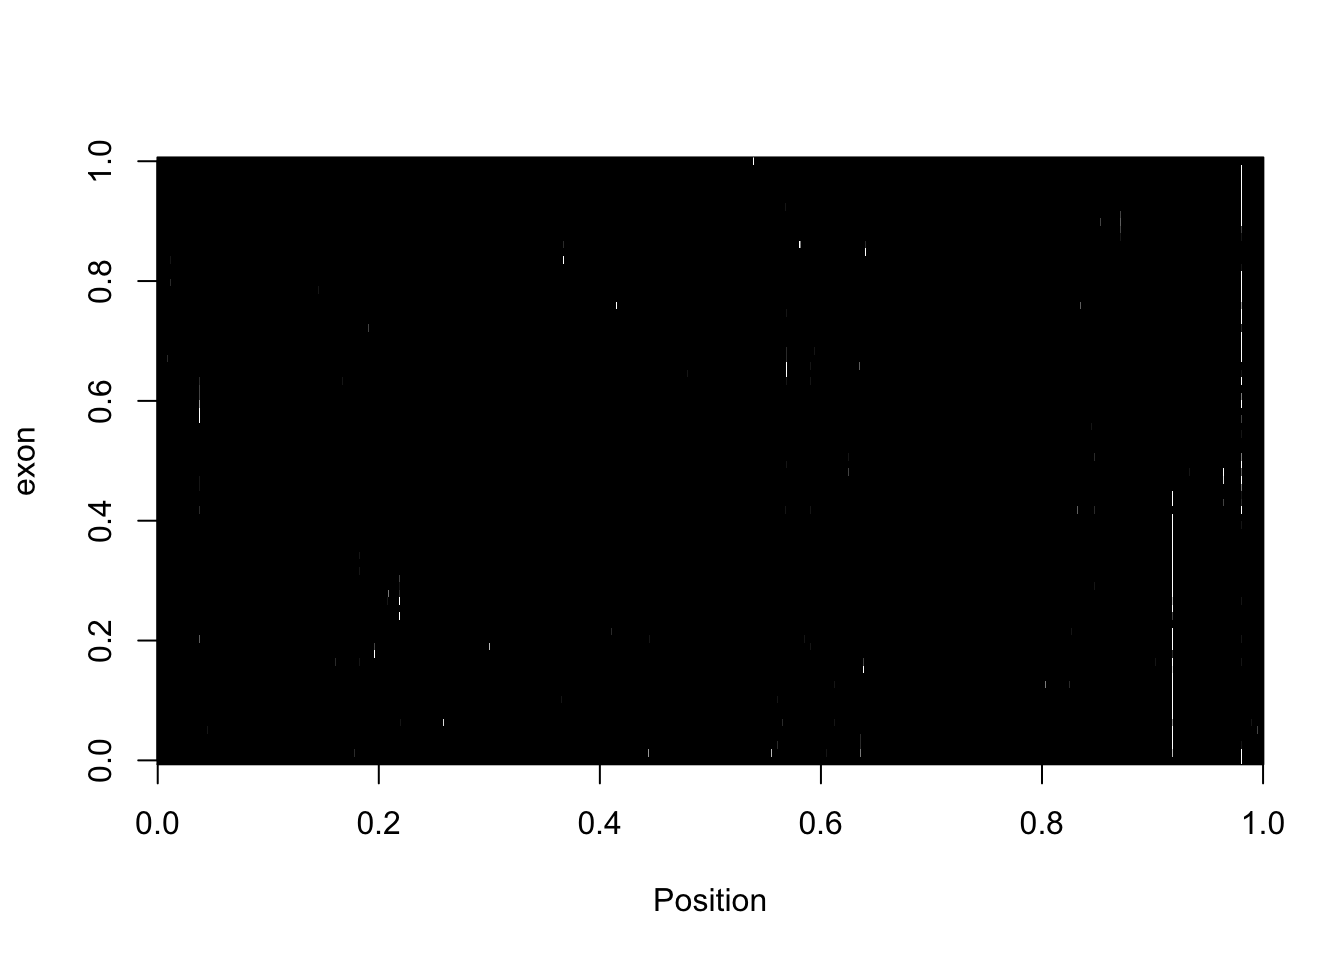
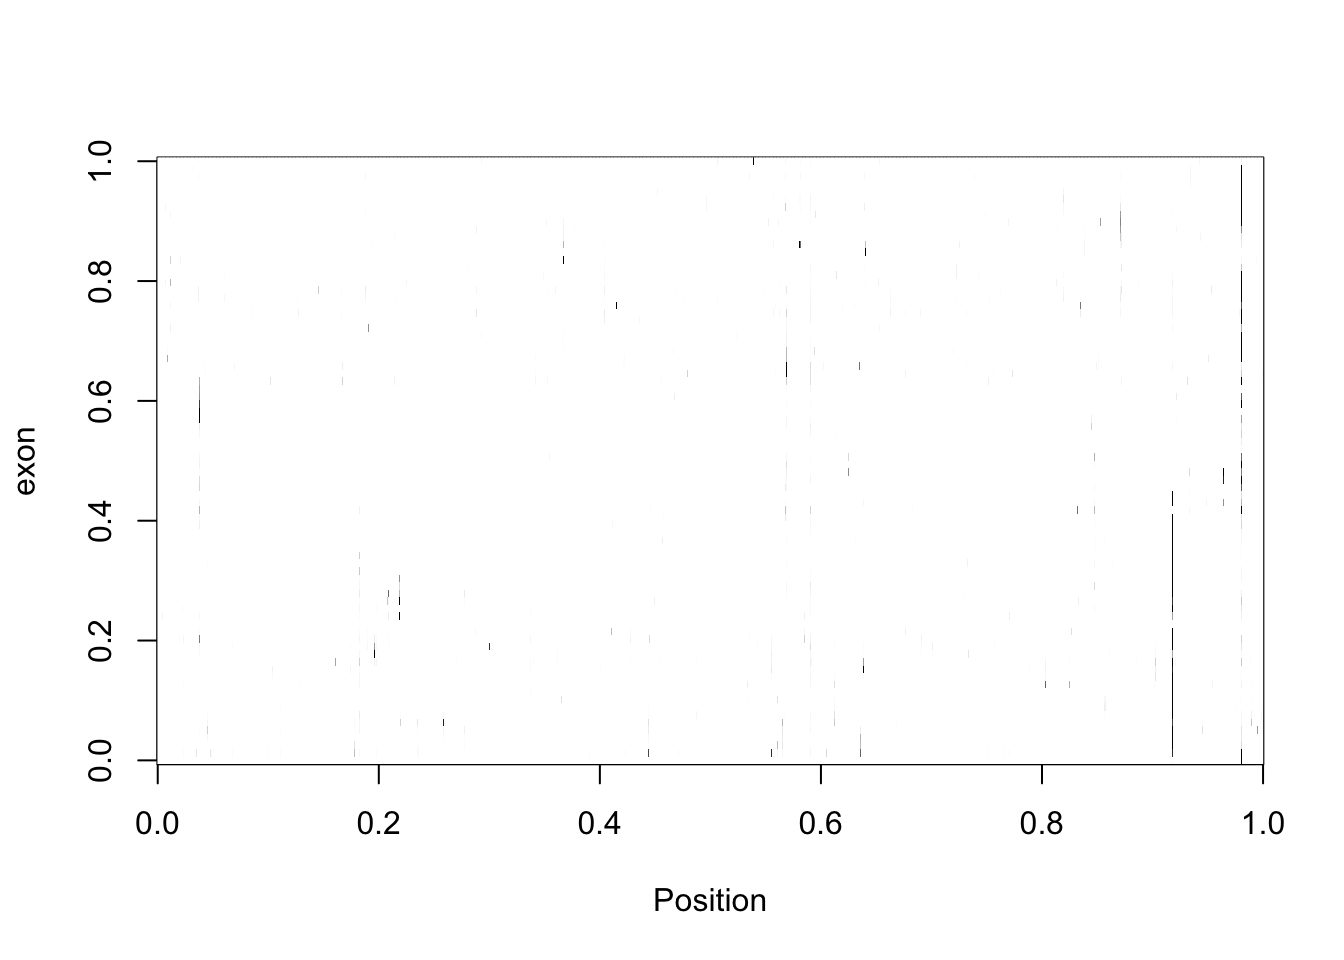
Build site.

diff --git a/docs/recreate_mayer_figs.html b/docs/recreate_mayer_figs.html
@@ -315,10 +315,10 @@ div.tocify {
 shared across the workflowr files. -->
 <!-- Update knitr chunk options -->
 <!-- Insert the date the file was last updated -->
-<p><strong>Last updated:</strong> 2018-03-18</p>
+<p><strong>Last updated:</strong> 2018-03-19</p>
 <!-- Insert the code version (Git commit SHA1) if Git repository exists and R
  package git2r is installed -->
-<p><strong>Code version:</strong> 41f9e01</p>
+<p><strong>Code version:</strong> 3aa98a8</p>
 <!-- Add your analysis here -->
 <p>This analysis is to recreate some of the figures from the Mayer paper using my data.</p>
 <pre class="r"><code>library(dplyr)</code></pre>
@@ -561,7 +561,7 @@ bedtools coverage -d  -a /project2/gilad/briana/Net-seq-pilot/data/exon_cov/top5
 bedtools coverage -d   -a /project2/gilad/briana/Net-seq-pilot/data/exon_cov/top5_exonlist_18486_fiveprime_noCHR.bed -b /project2/gilad/briana/Net-seq-pilot/data/bed/YG-SP-NET3-18486_combined_Netpilot-sort2-bp2.bed &gt; /project2/gilad/briana/Net-seq-pilot/data/ss_cov/top5_exonlist_18486_fiveprime_cov2.txt </code></pre>
 <pre class="r"><code>five_prime_cov2=read.table(&quot;../data/top5_exonlist_18486_fiveprime_cov2.txt&quot;, stringsAsFactors = FALSE)
 colnames(five_prime_cov2)= c(&quot;chr&quot;, &quot;start&quot;, &quot;end&quot;, &quot;exon&quot;, &quot;score&quot;,&quot;strand&quot;, &quot;pos&quot;, &quot;count&quot;)
-three_prime_cov2=read.table(&quot;../data/top5_exonlist_18486_threeprime_cov2.txt&quot;)
+three_prime_cov2=read.table(&quot;../data/top5_exonlist_18486_threeprime_cov2.txt&quot;, stringsAsFactors = FALSE)
 colnames(three_prime_cov2)= c(&quot;chr&quot;, &quot;start&quot;, &quot;end&quot;, &quot;exon&quot;,&quot;score&quot;,&quot;strand&quot;, &quot;pos&quot;, &quot;count&quot;)</code></pre>
 <pre class="r"><code>cov_bypos_pos2= five_prime_cov2 %&gt;% filter(strand==&quot;+&quot;) %&gt;% group_by(pos) %&gt;% summarise(sum_pos=sum(count)) 
 cov_bypos_neg2= five_prime_cov2 %&gt;% filter(strand==&quot;-&quot;) %&gt;% group_by(pos) %&gt;% summarise(sum_pos=sum(count))
@@ -678,10 +678,80 @@ for (i in seq(1,nrow(cov_df),80)){
 <pre class="r"><code>five_prime_matrix2=make_matrix(five_prime_cov2)
 five_prime_matrix2_norm=apply(t(five_prime_matrix2), 1, rescale)</code></pre>
 <p>Make an image picture:</p>
-<pre class="r"><code>my_palette &lt;- colorRampPalette(c(&quot;black&quot;, &quot;white&quot;))(n = 10)
+<pre class="r"><code>my_palette &lt;- colorRampPalette(c(&quot;white&quot;, &quot;black&quot;))(n = 100)
 image(five_prime_matrix2_norm,col=my_palette, ylab=&quot;exon&quot;, xlab=&quot;Position&quot;)</code></pre>
 <p><img src="figure/recreate_mayer_figs.Rmd/unnamed-chunk-40-1.png" width="672" style="display: block; margin: auto;" /></p>
-<p>Maybe this is not the normalization I want. I should try binary. If there is a read make it 1.</p>
+<p>Try on 3prime:</p>
+<pre class="r"><code>three_prime_matrix2=make_matrix(three_prime_cov2)
+three_prime_matrix2_norm=apply(t(three_prime_matrix2), 1, rescale)
+image(three_prime_matrix2_norm,col=my_palette, ylab=&quot;exon&quot;, xlab=&quot;Position&quot;)</code></pre>
+<p><img src="figure/recreate_mayer_figs.Rmd/unnamed-chunk-41-1.png" width="672" style="display: block; margin: auto;" /></p>
+<p>Try with a binary matrix:</p>
+<pre class="r"><code>make_binary=function(matrix){
+  new_matrix= matrix(NA, nrow = nrow(matrix), ncol = ncol(matrix))
+  for(row in 1:nrow(matrix)) {
+    for(col in 1:ncol(matrix)) {
+        if(matrix[row,col]!= 0){
+          new_matrix[row,col]= 1
+        }
+        else{
+            new_matrix[row,col] = 0
+        }
+    }
+  }
+  return(new_matrix)
+}
+
+five_prime_matrix2_bin=make_binary(five_prime_matrix2)
+three_prime_matrix2_bin= make_binary(three_prime_matrix2)</code></pre>
+<p>Try image with these:</p>
+<pre class="r"><code>image(three_prime_matrix2_bin,col=my_palette, ylab=&quot;exon&quot;, xlab=&quot;Position&quot;, main=&quot;Three prime coverage&quot;)</code></pre>
+<p><img src="figure/recreate_mayer_figs.Rmd/unnamed-chunk-43-1.png" width="672" style="display: block; margin: auto;" /></p>
+<pre class="r"><code>image(five_prime_matrix2_bin,col=my_palette, ylab=&quot;exon&quot;, xlab=&quot;Position&quot;, main=&quot;Five prime coverage&quot;)</code></pre>
+<p><img src="figure/recreate_mayer_figs.Rmd/unnamed-chunk-43-2.png" width="672" style="display: block; margin: auto;" /></p>
+<p>Try to find a natural cuttoff to change the highest reads:</p>
+<pre class="r"><code>vec_five_prime_matrix2=vector(&quot;numeric&quot;, length = 152480)
+for(row in 1:nrow(five_prime_matrix2)) {
+    for(col in 1:ncol(five_prime_matrix2)) {
+      vec_five_prime_matrix2[(row*col)]=five_prime_matrix2[row,col]
+    }
+}</code></pre>
+<pre class="r"><code>summary(vec_five_prime_matrix2)</code></pre>
+<pre><code>     Min.   1st Qu.    Median      Mean   3rd Qu.      Max. 
+     0.00      0.00      0.00      2.06      0.00 128251.00 </code></pre>
+<pre class="r"><code>plot(log10(vec_five_prime_matrix2))
+abline(h=2, col=&quot;red&quot;)</code></pre>
+<p><img src="figure/recreate_mayer_figs.Rmd/unnamed-chunk-45-1.png" width="672" style="display: block; margin: auto;" /></p>
+<pre class="r"><code>quantile(vec_five_prime_matrix2,c(.995, .998, .999))</code></pre>
+<pre><code>  99.5%   99.8%   99.9% 
+  6.000  36.000 125.042 </code></pre>
+<p>Make any value above top .2% value (36)==36</p>
+<pre class="r"><code>cut_top=function(matrix){
+  new_matrix= matrix(NA, nrow = nrow(matrix), ncol = ncol(matrix))
+  for(row in 1:nrow(matrix)) {
+    for(col in 1:ncol(matrix)) {
+        if(matrix[row,col]&gt;= 36){
+          new_matrix[row,col]= 36
+        }
+        else{
+            new_matrix[row,col] = matrix[row,col]
+        }
+    }
+  }
+  return(new_matrix)
+}</code></pre>
+<pre class="r"><code>three_prime_matrix2_998=cut_top(three_prime_matrix2)
+five_prime_matrix2_998=cut_top(five_prime_matrix2)</code></pre>
+<p>Create the image:</p>
+<pre class="r"><code>image(three_prime_matrix2_998,col=my_palette, ylab=&quot;exon&quot;, xlab=&quot;Position&quot;, main=&quot;Three prime coverage&quot;)</code></pre>
+<p><img src="figure/recreate_mayer_figs.Rmd/unnamed-chunk-48-1.png" width="672" style="display: block; margin: auto;" /></p>
+<pre class="r"><code>image(five_prime_matrix2_998,col=my_palette, ylab=&quot;exon&quot;, xlab=&quot;Position&quot;, main=&quot;Five prime coverage&quot;)</code></pre>
+<p><img src="figure/recreate_mayer_figs.Rmd/unnamed-chunk-48-2.png" width="672" style="display: block; margin: auto;" /></p>
+<p>Try to make the top plots with mean and sd:</p>
+<pre class="r"><code>image(three_prime_matrix2_bin,col=my_palette, ylab=&quot;exon&quot;, xlab=&quot;Position&quot;, main=&quot;Three prime coverage&quot;)</code></pre>
+<p><img src="figure/recreate_mayer_figs.Rmd/unnamed-chunk-49-1.png" width="672" style="display: block; margin: auto;" /></p>
+<pre class="r"><code>image(five_prime_matrix2_bin,col=my_palette, ylab=&quot;exon&quot;, xlab=&quot;Position&quot;, main=&quot;Five prime coverage&quot;)</code></pre>
+<p><img src="figure/recreate_mayer_figs.Rmd/unnamed-chunk-49-2.png" width="672" style="display: block; margin: auto;" /></p>
 </div>
 <div id="filter-out-first-and-last-exon" class="section level4">
 <h4>Filter out first and last exon</h4>

diff --git a/docs/index.html b/docs/index.html
@@ -234,6 +234,7 @@ $(document).ready(function () {
 <ul>
 <li><p><a href="update_snakefile.html">Update snakefile for pilot analysis</a></p></li>
 <li><p><a href="create_blacklist.html">Create blacklist to filter reads</a></p></li>
+<li><p><a href="recreate_mayer_figs.html">Recreate figures from Mayer</a></p></li>
 </ul>
 <p>Cell Growth analysis:</p>
 <ul>
